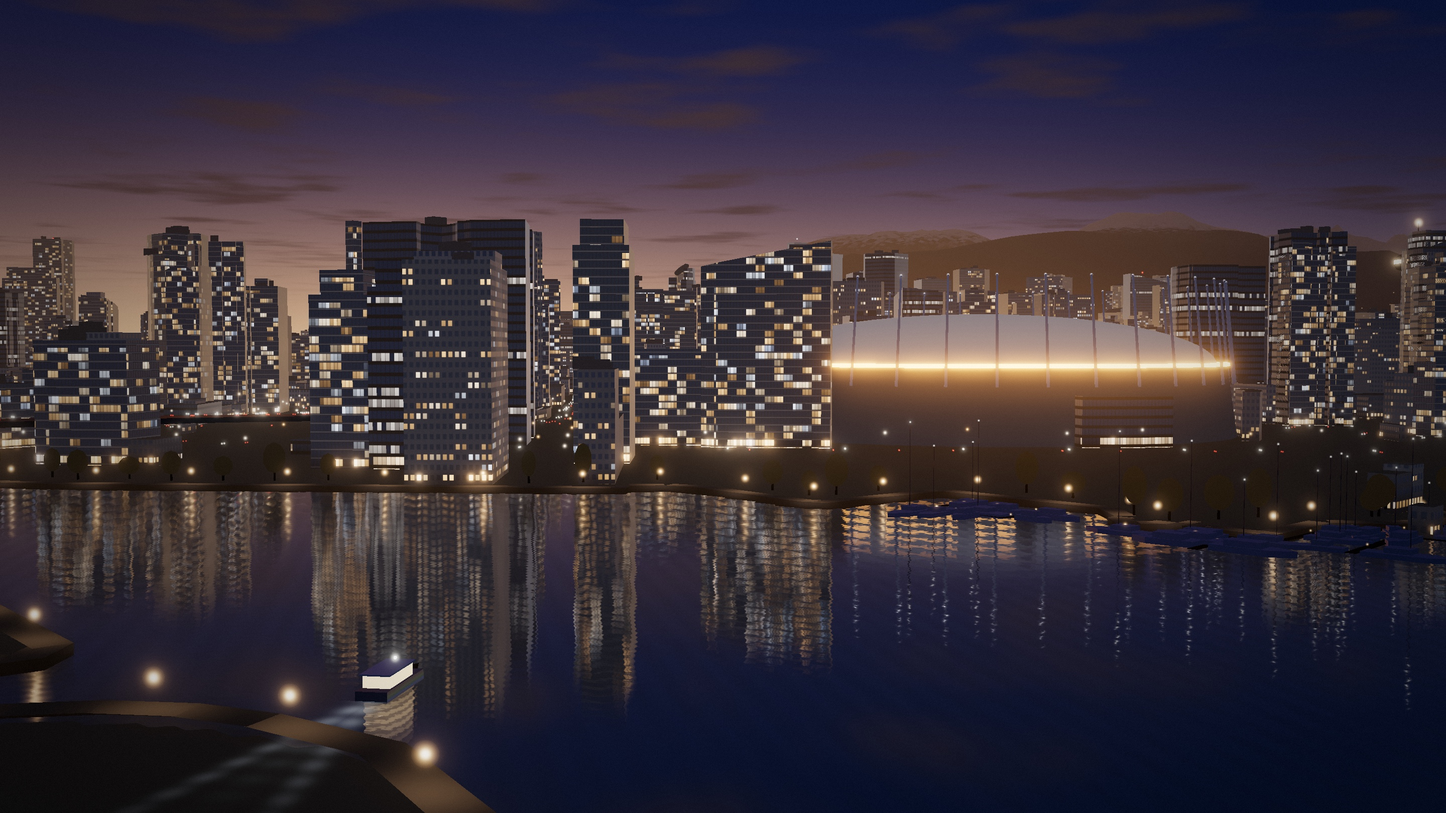
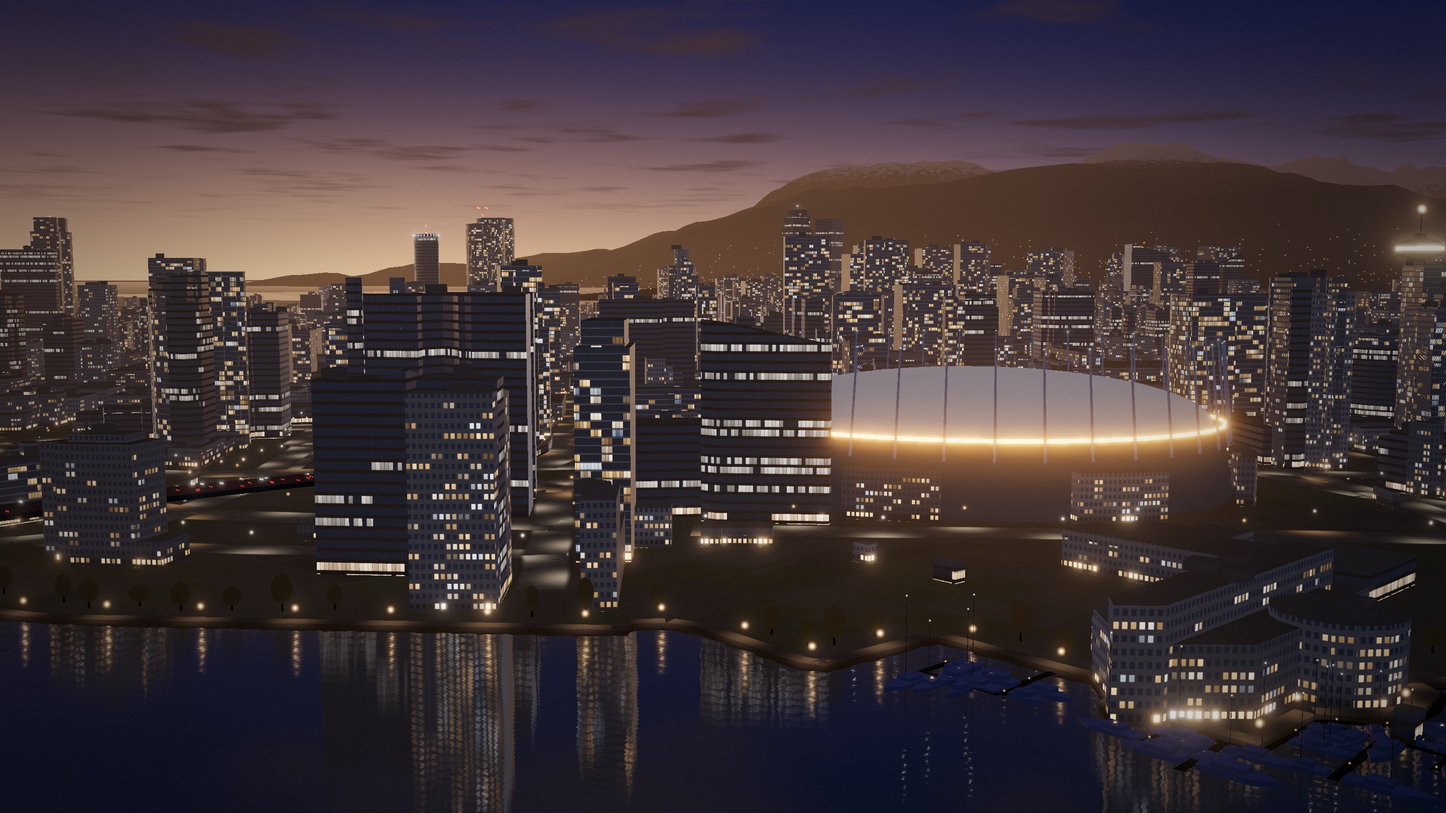
Hero: camera at 100 m, lit streets fill the ground
- Camera raised from 40 m to 100 m (pitch re-tuned) so the downtown core and
  the signature towers show over Yaletown; posters re-rendered
- Street surfaces: asphalt ribbons along downtown streets with pools of light
  under each streetlight; open lots get subtle variation instead of flat black
- Low blocks in front of BC Place restored (only hidden for low cameras);
  south-shore culling limited to buildings right beside the camera
- Distant facades stay dark with window sparkle instead of pale blocks
- Camera height is now an option (scene + look-dev page) for future tests

diff --git a/src/hero/streets.js b/src/hero/streets.js
@@ -5,12 +5,18 @@
  * buildings, which is exactly how a city reads at night: light leaking out of the gaps.
  */
 
-export function createStreets(roads, { camera = [0, 0], maxDistance = 2600, lampSpacing = 34, carSpacing = [18, 48] } = {}) {
+import * as THREE from 'three';
+import { skyGlsl, hashGlsl, fogGlsl } from './shaders.js';
+
+export function createStreets(roads, uniforms, { camera = [0, 0], maxDistance = 2600, lampSpacing = 34, carSpacing = [18, 48], ribbonDistance = 2200 } = {}) {
   let seed = 77;
   const rand = () => ((seed = (seed * 1664525 + 1013904223) >>> 0) / 4294967296);
   const far = ([x, y]) => Math.hypot(x - camera[0], y - camera[1]) > maxDistance;
   const lamps = [];
   const lanes = []; // { pts, cum, length, dir, speed, color }
+  // Street surfaces: ribbons along each road with the lamp layout encoded per vertex, so the shader can
+  // paint pools of light exactly under the streetlights (aArc: distance along, aAcross: offset from centre).
+  const rib = { pos: [], arc: [], across: [], phase: [], half: [] };
 
   for (const road of roads) {
     const pts = road.line;
@@ -30,7 +36,22 @@ export function createStreets(roads, { camera = [0, 0], maxDistance = 2600, lamp
     // Lamps, alternating sides.
     const half = road.main ? 11 : 8;
     let side = 1;
-    for (let s = rand() * lampSpacing; s < length; s += lampSpacing) {
+    const phase = rand() * lampSpacing;
+    if (pts.some((p) => Math.hypot(p[0] - camera[0], p[1] - camera[1]) < ribbonDistance)) {
+      const w = half + 2;
+      for (let i = 1; i < pts.length; i++) {
+        const [ax, ay] = pts[i - 1], [bx, by] = pts[i];
+        const seg = cum[i] - cum[i - 1];
+        if (seg < 0.5) continue;
+        const nx = (by - ay) / seg, ny = -(bx - ax) / seg; // right of travel
+        const v = [[ax - nx * w, ay - ny * w, cum[i - 1], -w], [bx - nx * w, by - ny * w, cum[i], -w], [bx + nx * w, by + ny * w, cum[i], w], [ax + nx * w, ay + ny * w, cum[i - 1], w]];
+        for (const k of [0, 1, 2, 0, 2, 3]) {
+          const [x, y, a, c] = v[k];
+          rib.pos.push(x, 0.12, -y); rib.arc.push(a); rib.across.push(c); rib.phase.push(phase); rib.half.push(half);
+        }
+      }
+    }
+    for (let s = phase; s < length; s += lampSpacing) {
       const p = pointAt(s, half * side);
       side = -side;
       if (far(p) || Math.hypot(p[0] - camera[0], p[1] - camera[1]) < 150) continue;
@@ -76,5 +97,53 @@ export function createStreets(roads, { camera = [0, 0], maxDistance = 2600, lamp
     }
   }
 
-  return { lamps, carLights, updateTraffic, stats: { lamps: lamps.length, cars: carLights.length / 2 } };
+  const g = new THREE.BufferGeometry();
+  g.setAttribute('position', new THREE.Float32BufferAttribute(rib.pos, 3));
+  g.setAttribute('aArc', new THREE.Float32BufferAttribute(rib.arc, 1));
+  g.setAttribute('aAcross', new THREE.Float32BufferAttribute(rib.across, 1));
+  g.setAttribute('aPhase', new THREE.Float32BufferAttribute(rib.phase, 1));
+  g.setAttribute('aHalf', new THREE.Float32BufferAttribute(rib.half, 1));
+  const material = new THREE.ShaderMaterial({
+    uniforms: { ...uniforms, uSpacing: { value: lampSpacing } },
+    side: THREE.DoubleSide,
+    polygonOffset: true, polygonOffsetFactor: -1, polygonOffsetUnits: -1,
+    vertexShader: /* glsl */ `
+      attribute float aArc; attribute float aAcross; attribute float aPhase; attribute float aHalf;
+      varying vec3 vWorld; varying float vArc; varying float vAcross; varying float vPhase; varying float vHalf;
+      void main() {
+        vec4 w = modelMatrix * vec4(position, 1.0);
+        vWorld = w.xyz; vArc = aArc; vAcross = aAcross; vPhase = aPhase; vHalf = aHalf;
+        gl_Position = projectionMatrix * viewMatrix * w;
+      }
+    `,
+    fragmentShader: /* glsl */ `
+      ${skyGlsl}
+      ${hashGlsl}
+      ${fogGlsl}
+      uniform float uSpacing;
+      varying vec3 vWorld; varying float vArc; varying float vAcross; varying float vPhase; varying float vHalf;
+      void main() {
+        // Nearest lamp along this road (lamps alternate sides), and how far this point is from it.
+        float k = floor((vArc - vPhase) / uSpacing + 0.5);
+        float along = vArc - (vPhase + k * uSpacing);
+        float side = mod(k, 2.0) < 0.5 ? 1.0 : -1.0;
+        float across = vAcross - side * vHalf;
+        float pool = exp(-(along * along * 0.8 + across * across) / (2.0 * 5.5 * 5.5));
+        float sodium = step(0.7, hash12(vec2(k, vPhase * 13.0)));
+        vec3 lamp = mix(vec3(1.0, 0.82, 0.6), vec3(1.0, 0.55, 0.22), sodium);
+        // Asphalt, a touch lighter in the middle; faint lane markings on wide roads.
+        float edge = smoothstep(vHalf + 2.0, vHalf - 1.0, abs(vAcross));
+        vec3 asphalt = vec3(0.022, 0.023, 0.027) * (0.85 + 0.3 * hash12(floor(vWorld.xz / 3.0)));
+        float marking = step(vHalf, 10.5) < 0.5 ? (1.0 - smoothstep(0.1, 0.25, abs(vAcross))) * step(0.5, fract(vArc / 6.0)) : 0.0;
+        vec3 col = asphalt + lamp * pool * 0.28 + vec3(0.6) * marking * pool * 0.15;
+        gl_FragColor = vec4(applyFog(col * edge, vWorld), edge);
+      }
+    `,
+    transparent: true,
+    depthWrite: false,
+  });
+  const surface = new THREE.Mesh(g, material);
+  surface.renderOrder = 1;
+
+  return { lamps, carLights, updateTraffic, surface, stats: { lamps: lamps.length, cars: carLights.length / 2, ribbonTriangles: rib.pos.length / 9 } };
 }

diff --git a/src/hero/scene.js b/src/hero/scene.js
@@ -14,7 +14,7 @@ import { createBoats, createAquabus } from './boats.js';
 import { createComposer } from './post.js';
 
 /**
- * Camera: on the Olympic Village seawall at the water's edge (the data origin), 40 m up, looking slightly
+ * Camera: above the Olympic Village seawall at the water's edge (the data origin), 100 m up, looking slightly
  * down across False Creek. Desktop frames the Yaletown towers and BC Place, with the Cambie Bridge's north
  * approach at the left edge and Harbour Centre to the right; phone centres BC Place.
  * Local metres: x east, y north. bearing: compass degrees; pitch: degrees (negative = down); fov: vertical degrees.
@@ -22,10 +22,10 @@ import { createComposer } from './post.js';
 export const CAMERA_POSITION = [0, 0];
 /** The real North Shore reads small at ~12 km; a gentle vertical exaggeration makes it feel closer. */
 export const MOUNTAIN_EXAGGERATION = 1.2;
-export const CAMERA_HEIGHT = 40;
+export const CAMERA_HEIGHT = 100; // decided 2026-11-21: high enough to see the downtown core over Yaletown
 export const FRAMING = {
-  desktop: { bearing: 320, pitch: -2.6, fov: 35 },
-  phone: { bearing: 331, pitch: -4.5, fov: 60 },
+  desktop: { bearing: 320, pitch: -5.8, fov: 35 },
+  phone: { bearing: 331, pitch: -7.5, fov: 60 },
 };
 
 /**
@@ -87,7 +87,7 @@ const angleDiff = (a, b) => ((a - b + 540) % 360) - 180;
 /**
  * @param {{ canvas, width, height, layout: 'desktop'|'phone', tier?: string, dataUrl?: string, terrain?: 'dem'|'procedural', maxPixelRatio?: number }} opts
  */
-export async function createSkylineScene({ canvas, width, height, layout = 'desktop', tier, dataUrl = '/data/skyline.json', terrain = 'dem', maxPixelRatio = Infinity, devicePixelRatio, preserveDrawingBuffer = false }) {
+export async function createSkylineScene({ canvas, width, height, layout = 'desktop', tier, dataUrl = '/data/skyline.json', terrain = 'dem', maxPixelRatio = Infinity, devicePixelRatio, preserveDrawingBuffer = false, cameraHeight = CAMERA_HEIGHT, pitchOffset = 0 }) {
   const detail = SCENE_DETAIL[layout];
   let framing = framingFor(width / height);
   let tierName = tier ?? (layout === 'phone' ? 'medium' : 'high');
@@ -106,10 +106,10 @@ export async function createSkylineScene({ canvas, width, height, layout = 'desk
   const camera = new THREE.PerspectiveCamera(framing.fov, width / height, 4, 40000);
   const aim = (bearing, pitch) => {
     const b = THREE.MathUtils.degToRad(bearing), p = THREE.MathUtils.degToRad(pitch);
-    camera.position.set(CAMERA_POSITION[0], CAMERA_HEIGHT, -CAMERA_POSITION[1]);
-    camera.lookAt(camera.position.x + Math.sin(b) * Math.cos(p), CAMERA_HEIGHT + Math.sin(p), camera.position.z - Math.cos(b) * Math.cos(p));
+    camera.position.set(CAMERA_POSITION[0], cameraHeight, -CAMERA_POSITION[1]);
+    camera.lookAt(camera.position.x + Math.sin(b) * Math.cos(p), cameraHeight + Math.sin(p), camera.position.z - Math.cos(b) * Math.cos(p));
   };
-  aim(framing.bearing, framing.pitch);
+  aim(framing.bearing, framing.pitch + pitchOffset);
   /** Point the camera: bearing/pitch in degrees, fov (vertical, degrees) optional. */
   const look = ({ bearing, pitch, fov }) => {
     if (fov !== undefined && fov !== camera.fov) {
@@ -166,7 +166,7 @@ export async function createSkylineScene({ canvas, width, height, layout = 'desk
   const buildingList = data.buildings.filter((b) => {
     if (sigRings.some((r) => insideRing(b.c, r))) { culled.signatures++; return false; }
     const d = distanceTo(b.c);
-    if (d < 700 && b.c[1] < 150) {
+    if (d < 260 && b.c[1] < 150) {
       let crossesWater = false;
       for (let i = 1; i <= 12 && !crossesWater; i++) {
         const k = i / 13;
@@ -174,7 +174,9 @@ export async function createSkylineScene({ canvas, width, height, layout = 'desk
       }
       if (!crossesWater) { culled.southShore++; return false; }
     }
-    if (L.bcPlace && b.h < 32 && d < bcDistance - 90 && Math.abs(angleDiff(bearingTo(b.c), bcBearing)) < 15) {
+    // At 40 m the low blocks in front of BC Place hid its base; from 100 m they don't, so this only applies
+    // to lower cameras.
+    if (CAMERA_HEIGHT < 70 && L.bcPlace && b.h < 32 && d < bcDistance - 90 && Math.abs(angleDiff(bearingTo(b.c), bcBearing)) < 15) {
       culled.frontOfBcPlace++;
       return false;
     }
@@ -236,7 +238,8 @@ export async function createSkylineScene({ canvas, width, height, layout = 'desk
   const animators = []; // (time) => void, run before every frame
 
   // Street life: lamps along the downtown streets, traffic on the main roads.
-  const streets = createStreets(data.roads, { camera: CAMERA_POSITION, lampSpacing: detail.lampSpacing, carSpacing: detail.carSpacing });
+  const streets = createStreets(data.roads, uniforms, { camera: CAMERA_POSITION, lampSpacing: detail.lampSpacing, carSpacing: detail.carSpacing });
+  scene.add(streets.surface);
   addLights(streets.lamps, 2);
   if (streets.carLights.length) {
     const streetTraffic = createLightPoints(streets.carLights, uniforms);

diff --git a/src/hero/buildings.js b/src/hero/buildings.js
@@ -170,9 +170,11 @@ export function createFacadeMaterial(uniforms) {
         // Far away: average instead of aliasing.
         float avgLit = mix(litShare, 0.27, isOffice);
         vec3 avgLamp = mix(mix(warm, neutral, 0.4), cool, isOffice * 0.7) * 0.62 * uWindowIntensity * avgLit;
-        vec3 far = mix(frameCol, glassCol * (1.0 - avgLit * 0.85) + avgLamp, windowArea);
-        far = mix(far, slabCol, isResi * 0.16);
-        float farMix = smoothstep(0.35, 0.9, max(fw.x, fw.y));
+        // Distant facades read as dark walls with a glow of windows, not pale blocks: darken the wall part.
+        vec3 far = mix(frameCol * 0.55, glassCol * (1.0 - avgLit * 0.85) + avgLamp, windowArea);
+        far = mix(far, slabCol * 0.6, isResi * 0.16);
+        // Keep individual windows until they're well under a pixel (a little sparkle reads as city lights).
+        float farMix = smoothstep(0.7, 1.8, max(fw.x, fw.y));
         vec3 col = mix(near, far, farMix);
 
         gl_FragColor = vec4(applyFog(col, vWorld), 1.0);

diff --git a/src/hero/water.js b/src/hero/water.js
@@ -144,9 +144,19 @@ export function createGround(uniforms) {
     `,
     fragmentShader: /* glsl */ `
       ${skyGlsl}
+      ${hashGlsl}
       ${fogGlsl}
       varying vec3 vWorld;
-      void main() { gl_FragColor = vec4(applyFog(vec3(0.014, 0.015, 0.018), vWorld), 1.0); }
+      void main() {
+        // Not flat black: lots, plazas and grass patches vary a little, with a faint warm wash of
+        // street light bouncing off the ground.
+        vec2 cell = floor(vWorld.xz / 22.0 + vec2(hash12(floor(vWorld.xz / 90.0)) * 0.5)); // irregular patches
+        float v = hash12(cell);
+        vec3 base = mix(vec3(0.014, 0.015, 0.018), vec3(0.012, 0.016, 0.013), step(0.75, v)); // some grass
+        base *= 0.88 + 0.24 * hash12(cell * 1.7 + 3.0);
+        base += vec3(0.006, 0.004, 0.002) * hash12(floor(vWorld.xz / 60.0));
+        gl_FragColor = vec4(applyFog(base, vWorld), 1.0);
+      }
     `,
   });
   return new THREE.Mesh(g, m);

diff --git a/scripts/skyline-lookdev.html b/scripts/skyline-lookdev.html
@@ -55,6 +55,9 @@ try {
       maxPixelRatio: dprOverride ?? (layout === 'phone' ? 1.5 : 1),
       devicePixelRatio: dprOverride ?? (layout === 'phone' ? 3 : 1), // simulate a phone screen in the headless capture
       preserveDrawingBuffer: true,
+      // &height=metres&pitch=degrees (offset): camera height experiments.
+      cameraHeight: params.get('height') ? +params.get('height') : undefined,
+      pitchOffset: params.get('pitchOffset') ? +params.get('pitchOffset') : 0,
       tier: params.get('tier') ?? (layout === 'phone' ? 'medium' : 'high'),
     });
     // &highlight=signatures paints the hand-built towers flat orange (visibility check).

diff --git a/CLAUDE.md b/CLAUDE.md
@@ -58,8 +58,9 @@ A realistic, interactive 3D Vancouver skyline that also works as navigation.
   **Science World** (geodesic dome, on the right near the water), Rogers Arena, and the Cambie Bridge.
   Footprint data won't capture domes/roofs/the saucer, so hand-model these landmarks as simple, recognizable
   low-poly meshes positioned with real coordinates.
-- **Camera and framing (decided 2026-11-21):** on the Olympic Village seawall at the water's edge
-  (49.27175, −123.1078), about 40 m up, looking slightly down across False Creek. Normal lens framed on downtown
+- **Camera and framing (decided 2026-11-21):** above the Olympic Village seawall at the water's edge
+  (49.27175, −123.1078), **100 m up** (raised from 40 m so the downtown core and signature towers show over
+  Yaletown), looking slightly down across False Creek. Normal lens framed on downtown
   (BC Place and Harbour Centre); the camera turns toward Science World (far right, ~60° east of north) with the
   cursor, scroll or phone tilt. Keep the full captured area in the data, but at render time draw only what's in view
   and use simpler detail for distant buildings.
